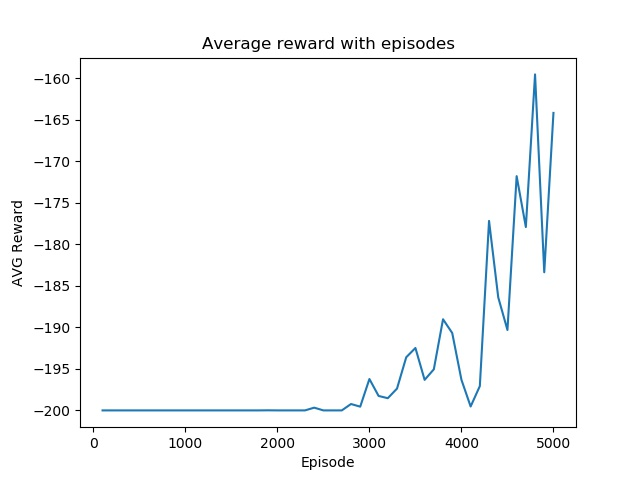
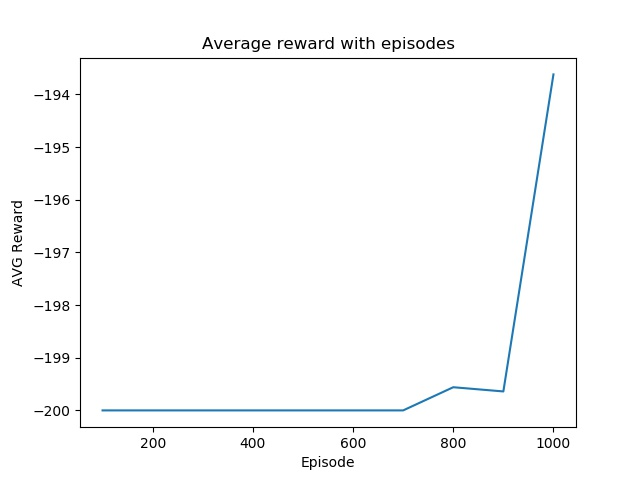
Plotting different rates when running algorithm.

diff --git a/mountain-car/main.py b/mountain-car/main.py
@@ -28,6 +28,7 @@ def QLearning(env, learning, discount, epsilon, min_eps, episodes):
     # Track rewards
     reward_list = []
     avg_reward_list = []
+    best_reward_list = []
     
     # Calculate episodic reduction in epsilon
     reduction = (epsilon - min_eps)/episodes
@@ -66,11 +67,9 @@ def QLearning(env, learning, discount, epsilon, min_eps, episodes):
                 Q[state1[0], state1[1], action] = reward
                 
             # Adjust Q value for current state
-            # new_value = (1 - alpha) * old_value + alpha * (reward + gamma * next_max)
             else:
-                delta = learning*(reward + 
-                                 discount*np.max(Q[state2[0], 
-                                                   state2[1]]) - 
+                # lr * (reward + gamma * np.max(Q[new_state, :]) — Q[state, action]
+                delta = learning*(reward+discount*np.max(Q[state2[0],state2[1]]) - 
                                  Q[state1[0], state1[1],action])
                 Q[state1[0], state1[1],action] += delta
                                      
@@ -78,7 +77,7 @@ def QLearning(env, learning, discount, epsilon, min_eps, episodes):
             total_reward += reward
             state1 = state2
         
-        # Decay epsilon
+        # Reduce epsilon over time
         if epsilon > min_eps:
             epsilon -= reduction
         
@@ -87,27 +86,45 @@ def QLearning(env, learning, discount, epsilon, min_eps, episodes):
         
         if (i+1) % 100 == 0:
             avg_reward = np.mean(reward_list)
+            max_reward = np.max(reward_list)
             avg_reward_list.append(avg_reward)
-            print("Episode ", i+1, "\nAverage Reward: ", avg_reward, "\nBest reward: ", np.max(reward_list),"\n-----------")
+            best_reward_list.append(max_reward)
+            print("Episode ", i+1, "\nAverage Reward: ", avg_reward, "\nBest reward: ", max_reward,"\n-----------")
             reward_list = []
             
     env.close()
     
-    return avg_reward_list
+    return avg_reward_list, best_reward_list
 
 # Run Q-learning algorithm
+# Epsilon - how much we want to explore rate
 # env, learning rate, discount rate, epsilon, min_eps, episodes):
 # TODO: Loop through different parameters, plot results
 # Learning rate 0.05, 0.1, 0.2, etc.
-rewards = QLearning(env, 0.1, 0.9, 0.8, 0, 5000)
+learning_rates = [0.05, 0.1, 0.2]
+discount_rates = [0.8, 0.9]
+exploration_rates = [0.2, 0.8]
 
-# Plot average rewards over time
-plt.plot(100*(np.arange(len(rewards)) + 1), rewards)
-plt.xlabel('Episode')
-plt.ylabel('AVG Reward')
-plt.title('Average reward with episodes')
-plt.savefig('rewards.jpg')     
-plt.close()    
+for learning_rate in learning_rates:
+    for discount_rate in discount_rates:
+        for exploration_rate in exploration_rates:
+            rewards, best_rewards = QLearning(env, learning_rate, discount_rate, exploration_rate, 0, 5000)
+            
+            # TODO: Plot differences when applying different learning rate, discount rate etc.
+            # TODO: Different Epsilon values yield different results....debate EXPLOITATION vs EXPLORATION
+            # Plot average rewards over time
+            plt.plot(100*(np.arange(len(rewards)) + 1), rewards)
+            plt.xlabel('Episode')
+            plt.ylabel('AVG Reward')
+            plt.title('Average reward with episodes')
+            plt.savefig('./plots/lr_'+str(learning_rate)+'_dr_'+str(discount_rate)
+                +'_er_'+str(exploration_rate)+'.jpg')     
+            plt.close() 
 
-# TODO: Plot best reward over time
-# TODO: Plot differences when applying different learning rate, discount rate etc.
+            # Plot best rewards over time
+            # plt.plot(100*(np.arange(len(best_rewards)) + 1), best_rewards)
+            # plt.xlabel('Episode')
+            # plt.ylabel('Best Reward')
+            # plt.title('Best reward with episodes')
+            # plt.savefig('./plots/best_rewards_'+str(learning_rate)+'.jpg')     
+            # plt.close() 
